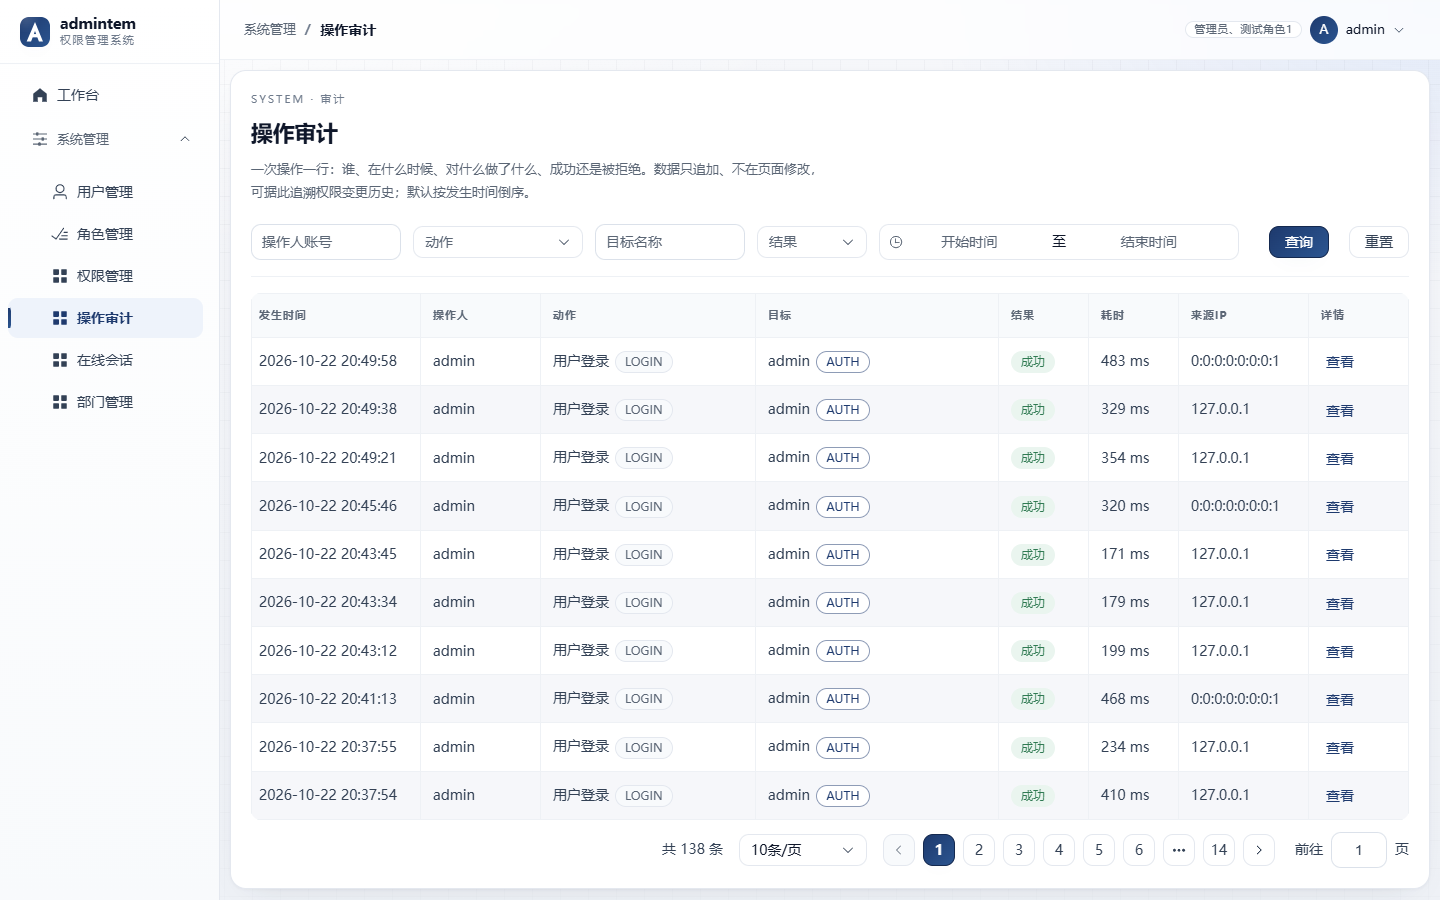
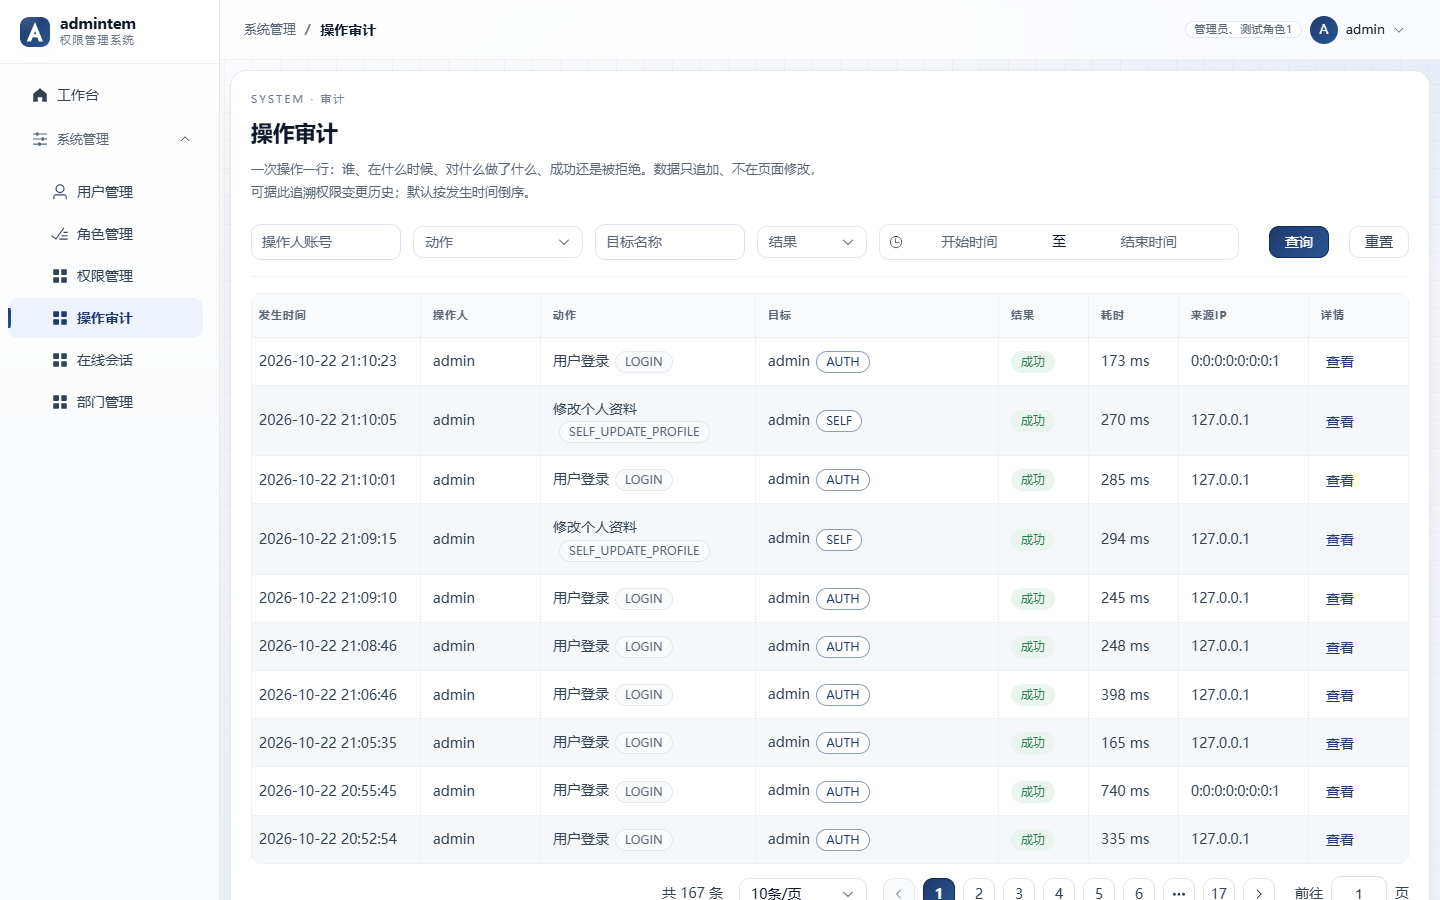
fix(data)：修正 admin 手机号为 11 位（V1.0.10），修复资料保存 400；uniapp 实测补充
问题
- 种子数据 admin 手机号是 12 位 121345678908，而 UpdateProfileRequest 校验 ^1\d{10}$
- 表现为：管理员打开个人资料，点保存必定 400；页面正常但永远保存失败

修复
- db/init/00_admintem_full_init.sql：种子改为 12134567890
- 新增 db/changelog/V1.0.10__fix_admin_phone.sql：只更新仍为旧值的行，幂等可重放
- 已在本机库执行修正（admin phone=12134567890，avatar 恢复为空）
- 文档：README（迁移基线 V1.0.10）、03（新增 V1.0.10 变更说明）

uniapp 实测补充（本次一并提交）
- 登录 → 工作台 → 我的 → 个人资料 → 保存：updateProfile 200，返回我的页
- 头像上传：/auth/uploadAvatar 200，出现"头像已上传，记得保存"
- 小程序/H5 构建与 6 个页面渲染此前已验证

回归
- 21 张截图重采；桌面 E2E 21、移动 E2E 41、token 检查、配图检查全部通过

diff --git a/admintem-docs/03-数据库设计与变更说明.md b/admintem-docs/03-数据库设计与变更说明.md
@@ -271,6 +271,295 @@ mysql -h<host> -P3306 -uroot -p admintem_new < db/init/00_admintem_full_init.sql
 | `db/changelog/V1.0.6__*.sql` | 增量：未删除行唯一索引（用户名/角色标识/权限标识，并发唯一性兜底，已应用） |
 | `db/changelog/V1.0.7__*.sql` | 增量：操作审计菜单与查询权限（权限 18→20，已应用） |
 | `db/changelog/V1.0.8__*.sql` | 增量：在线会话菜单与强制下线权限（权限 20→22，已应用） |
+| `db/changelog/V1.0.10__fix_admin_phone.sql` | 数据修正：admin 手机号 121345678908 → 12134567890（11 位，满足 `^1\d{10}# 03-数据库设计与变更说明
+
+## 1. 总原则
+
+本工程**完全沿用旧项目 MySQL 库 `admintem_new`**，不重建库、不改动任何存量表结构与数据，
+只做**增量、幂等、可回滚说明**的变更，变更脚本统一存放于：
+
+```
+admintem-docs/db/changelog/   （已应用脚本 + 新脚本按版本顺序存放）
+```
+
+Redis 沿用旧实例（database 0），键前缀隔离见《02-系统设计文档》第 5 节。
+
+## 2. 现有表结构（沿用，未修改）
+
+| 表 | 说明 | 关键列 |
+| ---- | ---- | ---- |
+| `sys_auth_user` | 用户 | user_name/nick_name/password(BCrypt)/status/is_deleted |
+| `sys_auth_role` | 角色 | role_name/role_key/is_deleted |
+| `sys_auth_permission` | 菜单+按钮 | type(0菜单 1按钮)/menu_url/component/backend_url/status/`show`/icon/permission_key/is_deleted |
+| `sys_auth_user_role` | 用户-角色关联 | user_id/role_id/is_deleted |
+| `sys_auth_role_permission` | 角色-权限关联 | role_id/permission_id/is_deleted |
+
+> 注意：`admintem_new` 中原本存在的 `sys_auth_role_permission` 孤儿关联
+> （permission_id=7..11，早期从 rand-system 拷贝历史遗留）本工程**未删除**；
+> V1.0.1 新权限落库后恰好补全了这些 ID 指向的真实按钮（新增用户/编辑用户/删除用户/
+> 重置密码/分配角色），关联即恢复有效语义，未做任何覆盖。
+
+## 3. 变更清单
+
+### V1.0.1 —— 按钮级权限种子 + 普通用户角色
+
+脚本：`db/changelog/V1.0.1__init_button_permissions.sql`（已应用，幂等可重放）
+
+变更内容：
+
+1. `sys_auth_permission` 新增 12 条 **type=1 按钮**权限（parent 归属 3/4/5），
+   `permission_key` 与后端注解、前端 v-perm 完全对应：
+
+| parent | 按钮名称 | permission_key | backend_url |
+| ---- | ---- | ---- | ---- |
+| 3 用户管理 | 新增用户 | sysAuthUser:addSysAuthUser | /sysAuthUser/addSysAuthUser |
+| 3 | 编辑用户 | sysAuthUser:editSysAuthUser | /sysAuthUser/editSysAuthUser |
+| 3 | 删除用户 | sysAuthUser:deleteById | /sysAuthUser/deleteById |
+| 3 | 重置密码 | sysAuthUser:resetPassword | /sysAuthUser/resetPassword |
+| 3 | 分配角色 | sysAuthUser:assignRole | /sysAuthUser/assignRole |
+| 4 角色管理 | 新增角色 | sysAuthRole:addAuthRole | /sysAuthRole/addAuthRole |
+| 4 | 编辑角色 | sysAuthRole:editAuthRole | /sysAuthRole/editAuthRole |
+| 4 | 删除角色 | sysAuthRole:deleteById | /sysAuthRole/deleteById |
+| 4 | 分配权限 | sysAuthRole:assignPermission | /sysAuthRole/assignPermission |
+| 5 权限管理 | 新增权限 | sysAuthPermission:addAuthPermission | /sysAuthPermission/addAuthPermission |
+| 5 | 编辑权限 | sysAuthPermission:editAuthPermission | /sysAuthPermission/editAuthPermission |
+| 5 | 删除权限 | sysAuthPermission:deleteById | /sysAuthPermission/deleteById |
+
+2. `sys_auth_role_permission`：为管理员(role_id=1)补齐以上 12 条关联（超级角色自动放行，
+   建立关联仅为授权页勾选回显一致）。
+
+3. `sys_auth_role` 新增角色：`普通用户 / common`；并授权其仅“工作台”(home:homeview)。
+   该角色供**自助注册**默认分配（`admintem.auth.default-role-key=common`，可配置）。
+
+### V1.0.2 —— 菜单 component 对齐动态路由约定
+
+脚本：`db/changelog/V1.0.2__align_menu_component.sql`（已应用，幂等可重放）
+
+变更内容：将 4 条可访问菜单的 `component` 更新为 `src/views` 下相对路径
+（不含扩展名与前导斜杠），并确保“系统管理”分组 component 为空：
+
+| permission_key | component 新值（views 相对路径） | 对应前端组件 |
+| ---- | ---- | ---- |
+| home:homeview | HomeView | views/HomeView.vue |
+| userInfo:userInfo | userInfo/UserInfo | views/userInfo/UserInfo.vue |
+| userInfo:roleInfo | userInfo/RoleInfo | views/userInfo/RoleInfo.vue |
+| userInfo:permissionInfo | userInfo/PermissionInfo | views/userInfo/PermissionInfo.vue |
+
+说明：前端据此用 `import.meta.glob` 自动映射并 `addRoute` 动态注册页面
+（完全动态路由，见《02-系统设计文档》8.1）；仅更新 component 字段，无结构与权限数据变更。
+
+### V1.0.3 —— 菜单 status / show 字段归一（让两个字段真正生效）
+
+脚本：`db/changelog/V1.0.3__align_menu_status_show.sql`（已应用，幂等可重放）
+
+背景：`sys_auth_permission` 的列注释与前端「权限管理」界面都声明了这两个字段的语义——
+`status`：0 启用 / 1 禁用(null 按启用)；`show`：0 展示 / 1 隐藏——但基线数据里 5 个菜单的
+`show` 全为 1（按注释即"隐藏"）、3~5 号菜单 `status` 为 NULL，且代码此前并未读取这两个字段，
+于是"隐藏/禁用"设置形同不存在，数据与注释互相矛盾。
+
+变更内容与配套处置：
+
+| 位置 | 处置 |
+| ---- | ---- |
+| 数据 | 5 个菜单统一为 `status=0`（启用）、`show=0`（展示）——与修正前的实际界面表现完全一致 |
+| 后端 | 会话菜单树构建时过滤 `status=1`（禁用）的菜单：不下发，页面不可访问 |
+| 前端（桌面端 / 移动端） | 按 `show=1` 在导航与菜单清单中隐藏；**隐藏菜单仍注册路由，可直接用 URL 访问** |
+| 文档 | 本节 + 《05-接口与权限标识对照表》第 7 节 + 《06-测试报告》第 4.2 节 |
+
+回滚：`UPDATE sys_auth_permission SET show=1, status=NULL WHERE type=0 AND id BETWEEN 3 AND 5;`
+`UPDATE sys_auth_permission SET show=1 WHERE type=0 AND id IN (1,2);`
+
+语义速查（新增/调整菜单时按此判断）：
+
+| 需求 | status | show |
+| ---- | ---- | ---- |
+| 正常菜单 | 0 | 0 |
+| 暂不开放的页面（连直达也禁止） | 1 | — |
+| 隐藏菜单（不在导航显示，但可直达，如详情页） | 0 | 1 |
+
+### V1.0.4 —— 热查询索引补齐
+
+脚本：`db/changelog/V1.0.4__add_hot_query_indexes.sql`（已应用，幂等可重放）
+
+背景（优化清单 B 组执行时发现）：`role_key`、`permission_key` 上没有索引，
+两张关联表也只有"以 user_id / role_id 为前导列"的复合索引，导致四类热查询全表扫描。
+
+| 索引 | 表(列) | 支撑的查询 |
+| ---- | ---- | ---- |
+| `idx_role_key` | sys_auth_role(role_key) | 登录判定超级角色、注册取默认角色、角色标识唯一性校验、会话构建 `selectByRoleKeys` |
+| `idx_permission_key` | sys_auth_permission(permission_key) | 权限标识唯一性校验、会话构建 `selectByKeys` |
+| `idx_role_id` | sys_auth_user_role(role_id) | 删除角色前绑定校验 `countByRoleId`、权限变更后按角色失效缓存 |
+| `idx_permission_id` | sys_auth_role_permission(permission_id) | 删除权限时级联清理关联 `selectByPermissionIds` |
+
+实测（EXPLAIN）：四类查询均由 `type=ALL / possible_keys=NULL` 变为
+`type=ref` 且 `key` 命中上述新索引。
+
+说明：索引保持**非唯一**（与既有 `idx_user_name` 约定一致），唯一性仍由应用层
+`countByXxx`（排除自身）保证——这样逻辑删除后同名重建不会被唯一键挡住；
+一键初始化脚本 `db/init/00_admintem_full_init.sql` 的建表语句已同步包含这 4 个索引。
+
+### V1.0.5 —— 操作审计日志表
+
+脚本：`db/changelog/V1.0.5__add_audit_log.sql`（已应用，幂等可重放）
+
+背景：改造前的"操作留痕"分散在三处，都不足以作为审计依据——
+应用日志按天滚动会被清理、慢 SQL 日志只关心性能、业务表的 `created_by/update_by`
+只能回答"最后一次是谁改的"。权限系统尤其需要"改权限的行为可追溯"，
+因此新增独立审计表。
+
+| 项 | 说明 |
+| ---- | ---- |
+| 表名 | `sys_auth_audit_log`（新增，不改动任何既有表） |
+| 写入时机 | ① 被 `@AuditLog` 注解的控制器方法执行完成（成功/业务失败/抛异常都记一条）；② 两处 403 出口（过滤器链 `AccessDeniedHandler`、方法级 `@PreAuthorize` 的异常处理器） |
+| 表设计 | **只追加**：无 `is_deleted` 字段，Mapper 只提供 `insert`，避免审计记录被业务改写 |
+| 关键字段 | `operator/operator_id`（操作人）、`action/action_name`（动作码与中文名）、`target_type/target_id/target_name`（操作对象）、`result/error_code/error_msg`（结果）、`client_ip`、`trace_id`、`cost_ms`、`created_time` |
+| 索引 | `idx_audit_operator_time(operator, created_time)`、`idx_audit_action_time(action, created_time)`、`idx_audit_created_time(created_time)`、`idx_audit_trace(trace_id)`——对应四种审计查法 |
+| 开关 | `admintem.audit.enable`（总开关）、`admintem.audit.log-denied`（是否记录 403 尝试）、`max-text-length`（失败原因截断）、`retention-days`（保留天数，仅运维清理用） |
+| 影响面 | 无接口变更、无权限标识新增、前端无需改动；审计写入失败只告警、不影响业务 |
+| 一键初始化 | `db/init/00_admintem_full_init.sql` 已同步该表（脚本语义为"重置到演示基线"，会一并清空审计表） |
+
+### V1.0.6 —— 未删除行唯一索引（并发唯一性兜底）
+
+脚本：`db/changelog/V1.0.6__add_active_unique_indexes.sql`（已应用，幂等可重放）
+
+背景：`user_name` / `role_key` / `permission_key` 的唯一性原先**只靠应用层**
+（Service 里"先 count 再 insert"），而三张表都只有普通索引。并发下两个请求可以同时通过
+count 校验并双双插入成功，表里出现两个同名账号；登录查询 `selectByUserName` 走 `LIMIT 1`，
+身份会随机落到其中一行，权限随之错乱。这是"业务上必须唯一"与"数据库没有约束"之间的缺口。
+
+| 项 | 说明 |
+| ---- | ---- |
+| 新增索引 | `sys_auth_user.uk_user_name_active`、`sys_auth_role.uk_role_key_active`、`sys_auth_permission.uk_permission_key_active` |
+| 索引形式 | **函数索引**：`UNIQUE KEY ... ((IF(is_deleted = 0, 业务键, NULL)))` |
+| 为什么用函数索引 | 本系统逻辑删除（`is_deleted`）。普通唯一索引会把已删除行也算进去，导致"删掉后无法用同名重建"；函数索引把已删除行的表达式求值为 `NULL`，而 MySQL 唯一索引允许多个 `NULL`，于是"未删除行唯一 + 已删除行可同名共存"两条需求同时满足 |
+| 应用层配合 | 保留 count 校验（为了友好提示与明确业务码）；同时把 `insert` 的 `DuplicateKeyException` 转成同一业务码（用户 505、角色/权限 400+具体提示），并发与串行两条路径对外表现一致 |
+| 执行前检查 | 脚本开头会输出重复数据（正常为空）；若真有重复，`ALTER` 会失败并报 `Duplicate entry`——这是期望行为，宁可失败也不要静默放过 |
+| 影响面 | 无接口/字段变更；插入性能影响可忽略（唯一索引与普通索引同为 B+Tree 维护） |
+| 一键初始化 | `db/init/00_admintem_full_init.sql` 的三张表建表语句已包含这三个唯一索引 |
+
+> 顺带把一键初始化脚本改成**必须显式确认**才执行（`SET @admintem_confirm_reset = 1`），
+> 未确认时 `SIGNAL` 中止且不删除任何表。原因见《09》第 18 节的一次真实事故记录。
+
+审计字段口径（实测样例见《06-测试报告》）：登录类动作的操作人取**被尝试的账号**
+（登录时尚未认证）；新增类动作的目标 ID 取自返回值（新对象 ID 只在返回值里）；
+删除/分配类动作的请求体只有 ID，因此 `target_id` 有值而 `target_name` 可能为空——
+审计只记录"请求确实携带的信息"，不做额外回查，避免为了填名字而引入新的耦合与失败点。
+
+### V1.0.7 —— 操作审计菜单与查询权限
+
+脚本：`db/changelog/V1.0.7__add_audit_query_permission.sql`（已应用，幂等可重放）
+
+背景：审计表（V1.0.5）此前**只写不读**，要看记录只能连库跑 SQL；本次补上查询接口与页面，
+因此需要新增两条权限数据，否则接口会被 403、菜单也不会出现在导航里。
+
+| 项 | 说明 |
+| ---- | ---- |
+| 新增菜单 | `操作审计`（type=0，`/auditLog`，组件 `auditLog/index`，`permission_key=auditLog:auditLog`，挂在「系统管理」下、排序第 4） |
+| 新增按钮 | `审计查询`（type=1，`permission_key=sysAuthAuditLog:paginQuery`，父节点为上一步菜单） |
+| 授权 | 两条权限均授予内置管理员角色（`role_id=1`）。admin 对 `@PreAuthorize` 有旁路，但**菜单可见性依赖授权行**，不写关联会"能调接口却看不到菜单" |
+| 幂等写法 | 全部 `INSERT ... SELECT ... WHERE NOT EXISTS`；实测连续执行两次，权限总数仍为 20、关联无重复 |
+| 回滚 | 见脚本头部注释（生产建议逻辑删除，保留审计链） |
+| 影响面 | 权限总数 18 → 20；受控接口 18 → 20（新增 2 个只读接口）；其他角色不受影响（`test` 仍只有工作台 + 用户/角色菜单） |
+| 一键初始化 | `db/init/00_admintem_full_init.sql` 已同步（权限 id 19/20 与对应授权） |
+
+### V1.0.8 —— 在线会话菜单与强制下线权限
+
+脚本：`db/changelog/V1.0.8__add_online_session_permission.sql`（已应用，幂等可重放）
+
+背景：令牌白名单本身就是"谁在线"的事实来源，但此前只能连 Redis 删 key。本次补界面。
+
+| 项 | 说明 |
+| ---- | ---- |
+| 新增菜单 | `在线会话`（type=0，`/onlineSession`，组件 `onlineSession/index`，`permission_key=onlineSession:onlineSession`，系统管理下排序第 5） |
+| 新增按钮 | `强制下线`（type=1，`permission_key=sysAuthSession:kick`） |
+| 授权 | 授予内置管理员（role_id=1） |
+| 幂等 | `INSERT ... SELECT ... WHERE NOT EXISTS`；连跑两次权限总数仍为 22 |
+| 影响面 | 权限 20 → 22；受控接口 20 → 22；不新增表、不改表结构 |
+
+### V1.0.9 —— 部门表与用户归属
+
+脚本：`db/changelog/V1.0.9__add_dept.sql`（已应用，幂等可重放）
+
+背景：此前只有功能权限（菜单/按钮），没有组织结构，用户无法归属部门。
+
+| 项 | 说明 |
+| ---- | ---- |
+| 新增表 | `sys_dept`（parent_id 树形、order_num 排序、leader/phone、status、逻辑删除）；未删除行 `dept_name` 唯一（函数索引） |
+| 用户表 | 新增 `dept_id` 列 + `idx_user_dept` 索引（列已存在时脚本自动跳过） |
+| 菜单/按钮 | 「部门管理」+ 新增/编辑/删除三个按钮，均授予管理员 |
+| 演示数据 | 总公司 / 技术部 / 产品部；admin→总公司、test→技术部（仅在未分配时写入） |
+| 幂等 | 建表 IF NOT EXISTS、列用 information_schema 判断、权限与种子用 WHERE NOT EXISTS；实测连跑两次部门仍为 3 行、权限 26 条 |
+| 边界 | 一个用户一个部门；不做数据权限（按部门过滤业务数据），那是 ABAC 范围 |
+| 一键初始化 | init 脚本已同步（建表、列、3 个部门、权限 23–26 与授权、用户归属） |
+
+### 后续版本约定
+
+- 新需求需要加权限/角色时，新增 `V1.0.x__xxx.sql`（递增版本号），统一用
+  `INSERT ... SELECT ... WHERE NOT EXISTS` 幂等写法；
+- 文件头必须写明：目标库、变更目的、影响面、执行方式、对应文档链接；
+- 执行后把结果追加到《06-测试报告》与本文档“变更清单”。
+
+## 4. 密码说明（沿用旧数据，未改动）
+
+| 账号 | 密码 | 角色 |
+| ---- | ---- | ---- |
+| admin | 12345678 | 管理员(admin) + 测试角色1 |
+| test | 12345678 | 测试角色1(cehsi1) |
+
+## 5. 还原 / 清理
+
+- 测试产生的临时数据（`t_` 前缀、空账号行）由 `tests/cleanup-test-data.sql` 物理清理，
+  该文件仅应在开发库执行；
+- 如要撤销 V1.0.1：按清单反向删除新增行即可（本工程不提供自动回滚脚本，需人工按注释核对）。
+
+## 6. 一键全量初始化（换环境/演示用）
+
+脚本：`db/init/00_admintem_full_init.sql`
+
+- 用途：在**测试/演示库**上重建 RBAC 五张表并灌入与线上一致的基线
+  （用户 2：admin/test；角色 3：admin/cehsi1/common；权限 26；关联：role1=26、role2=5、role3=1；部门 3 个）；
+- 覆盖范围：仅 `sys_auth_*` 五张表（其余表不受影响），整体幂等可重复执行；
+- 注意：执行前会 DROP 并重建五表，会覆盖其中数据，**务必先备份**：
+
+```bash
+mysqldump -h<host> -P3306 -uroot -p admintem_new sys_auth_user sys_auth_role sys_auth_permission \
+    sys_auth_user_role sys_auth_role_permission > admintem_new_rbac_backup.sql
+mysql -h<host> -P3306 -uroot -p admintem_new < db/init/00_admintem_full_init.sql
+```
+
+- 文件头含完整执行前检查与“整库 DROP/CREATE（可选）”说明；
+- 最近一次执行备份留存于 `tests/backup/`（前缀 `admintem_new_before_full_init_`），确认无误后可删除；
+- 还原：将备份 SQL 重新导入即可恢复执行前的五表状态。
+
+## 7. 目录导览（SQL 文件位置）
+
+| 目录/文件 | 用途 |
+| ---- | ---- |
+| `db/init/00_admintem_full_init.sql` | 一键全量初始化（重建五表 + 基线种子） |
+| `db/changelog/V1.0.1__*.sql` | 增量：按钮级权限种子 + common 角色（已应用） |
+| `db/changelog/V1.0.2__*.sql` | 增量：菜单 component 对齐动态路由（已应用） |
+| `db/changelog/V1.0.3__*.sql` | 增量：菜单 status/show 归一，配合两字段生效（已应用） |
+| `db/changelog/V1.0.4__*.sql` | 增量：热查询索引补齐（role_key/permission_key/反向关联，已应用） |
+| `db/changelog/V1.0.5__*.sql` | 增量：操作审计日志表 sys_auth_audit_log（新增表，已应用） |
+| `db/changelog/V1.0.6__*.sql` | 增量：未删除行唯一索引（用户名/角色标识/权限标识，并发唯一性兜底，已应用） |
+| `db/changelog/V1.0.7__*.sql` | 增量：操作审计菜单与查询权限（权限 18→20，已应用） |
+| `db/changelog/V1.0.8__*.sql` | 增量：在线会话菜单与强制下线权限（权限 20→22，已应用） |
+；仅更新仍为旧值的行） |
 | `db/changelog/V1.0.9__*.sql` | 增量：部门表 + 用户 dept_id + 部门权限（权限 22→26，已应用） |
 | `tests/cleanup-test-data.sql` | 测试数据物理清理 |
 | `tests/backup/*` | 数据库操作前的一次性备份 |
+
+### V1.0.10 —— 修正内置 admin 手机号
+
+脚本：`db/changelog/V1.0.10__fix_admin_phone.sql`（幂等）
+
+**背景**：种子数据里 admin 的手机号写成 12 位（`121345678908`），而
+`UpdateProfileRequest.phone` 的校验是 `^$|^1\d{10}$`。
+结果是管理员打开「个人资料」只要提交就会 400 —— 页面看起来正常，保存一直失败。
+
+**处理**：
+- 初始化脚本 `00_admintem_full_init.sql` 改为 `12134567890`；
+- 增量脚本只更新"仍是旧值"的行，不覆盖用户自己改过的号码；
+- 不涉及表结构变更，可安全重放。
+
+**验证**：修正后 `admin` 的资料保存 200，手机号回显 11 位。

diff --git a/README.md b/README.md
@@ -74,7 +74,7 @@ mysql> source admintem-docs/db/init/00_admintem_full_init.sql
 > 初始化脚本会 **DROP 并重建** `sys_auth_*`、`sys_dept`、`sys_auth_audit_log` 等表。
 > 没有 `SET @admintem_confirm_reset = 1` 会直接 `SIGNAL` 中止，不会删任何数据——这条闸门来自一次真实事故（见《09》18.6）。
 
-后续增量变更由 Flyway 在 dev 环境自动执行 `admintem-docs/db/changelog/V*.sql`（已应用到 V1.0.9）。
+后续增量变更由 Flyway 在 dev 环境自动执行 `admintem-docs/db/changelog/V*.sql`（已应用到 V1.0.10）。
 
 ### 2.3 配置连接信息
 
@@ -258,7 +258,7 @@ anime.js v4 的时间线编排。**均为设计手法借鉴，运行时不依赖
 | ---- | ---- |
 | [01-需求与范围](admintem-docs/01-需求与范围.md) | 目标、边界、角色 |
 | [02-系统设计文档](admintem-docs/02-系统设计文档.md) | 架构、鉴权链路、缓存、审计、上传、部门 |
-| [03-数据库设计与变更说明](admintem-docs/03-数据库设计与变更说明.md) | 表结构 + V1.0.1~V1.0.9 变更（含回滚） |
+| [03-数据库设计与变更说明](admintem-docs/03-数据库设计与变更说明.md) | 表结构 + V1.0.1~V1.0.10 变更（含回滚） |
 | [04-部署与操作手册](admintem-docs/04-部署与操作手册.md) | 环境、配置项、启动、故障处理 |
 | [05-接口与权限标识对照表](admintem-docs/05-接口与权限标识对照表.md) | 每个接口对应的权限标识（含自动生成的矩阵） |
 | [06-测试报告](admintem-docs/06-测试报告.md) | 每轮验证的实测数据 |
